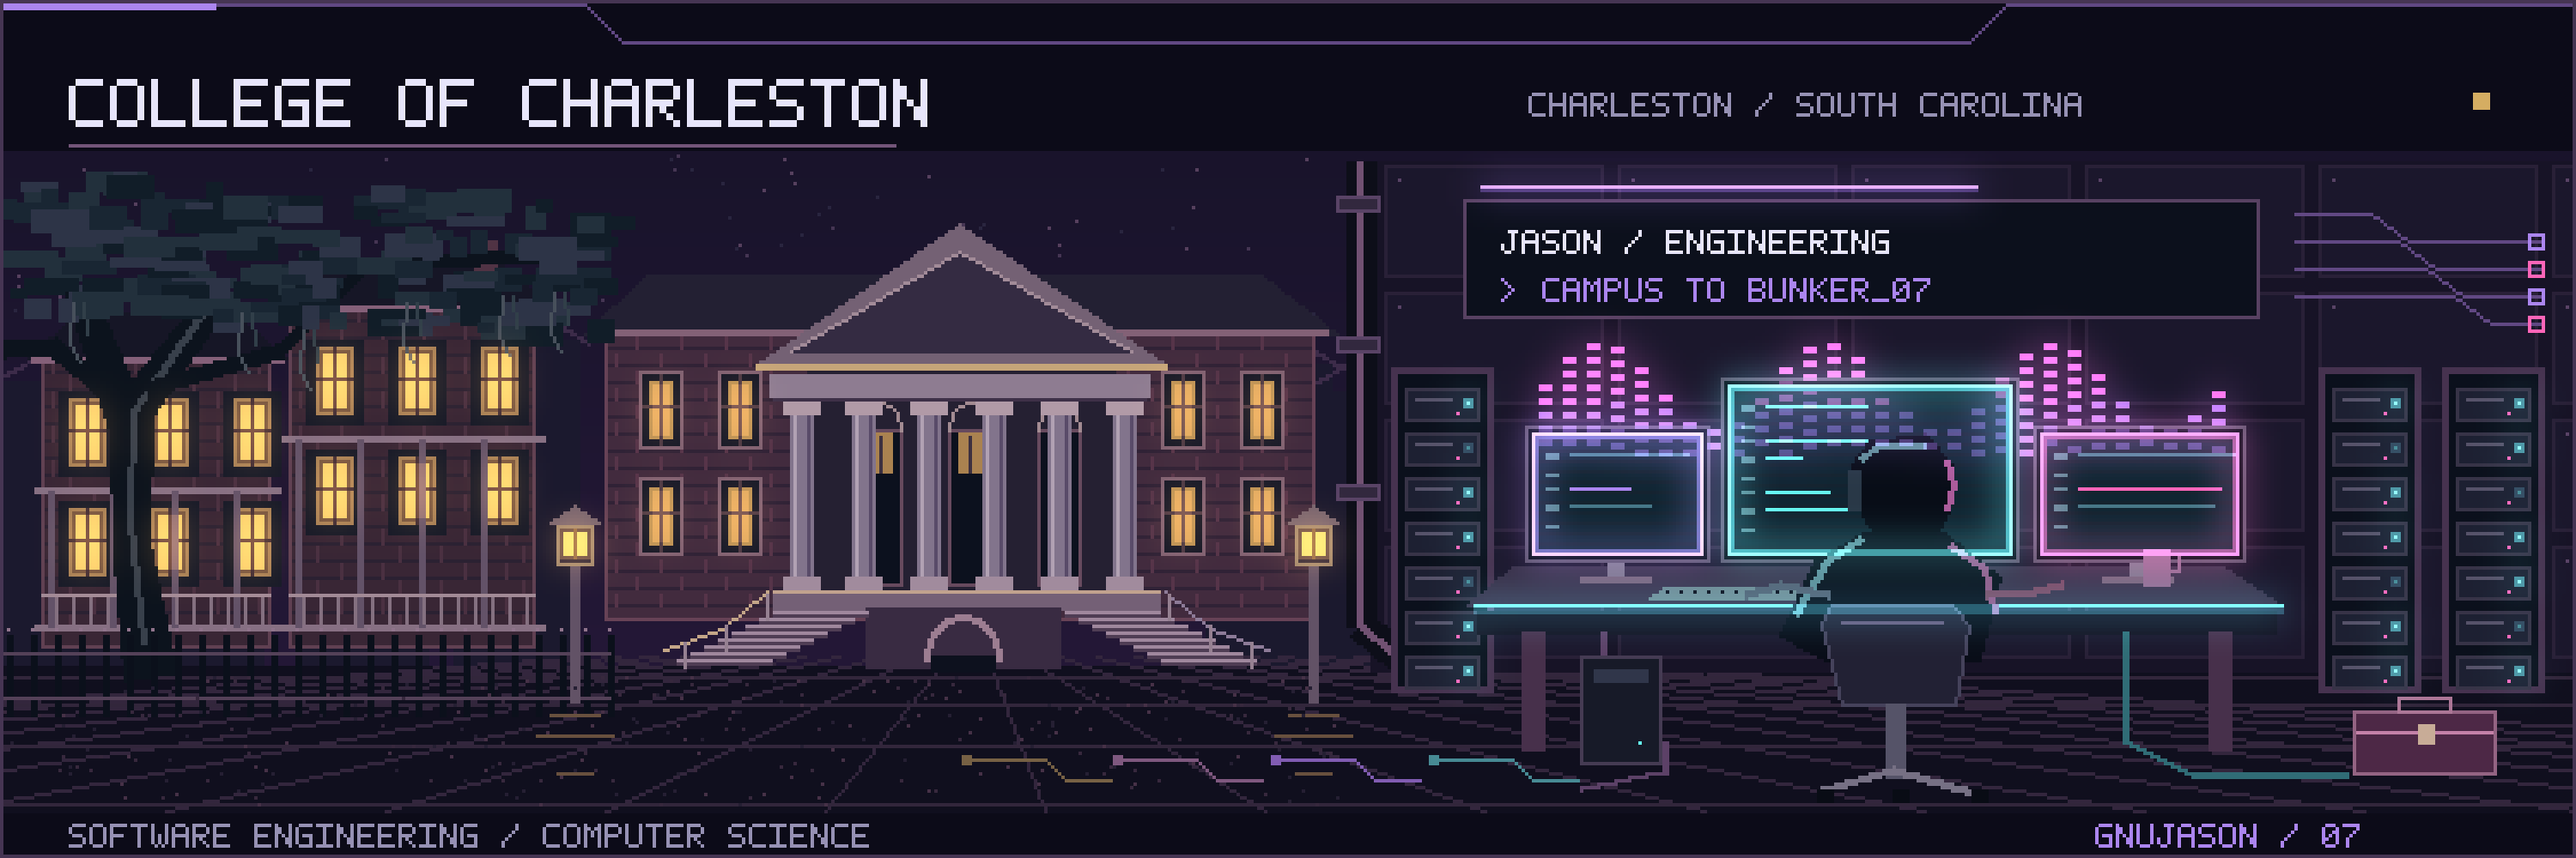
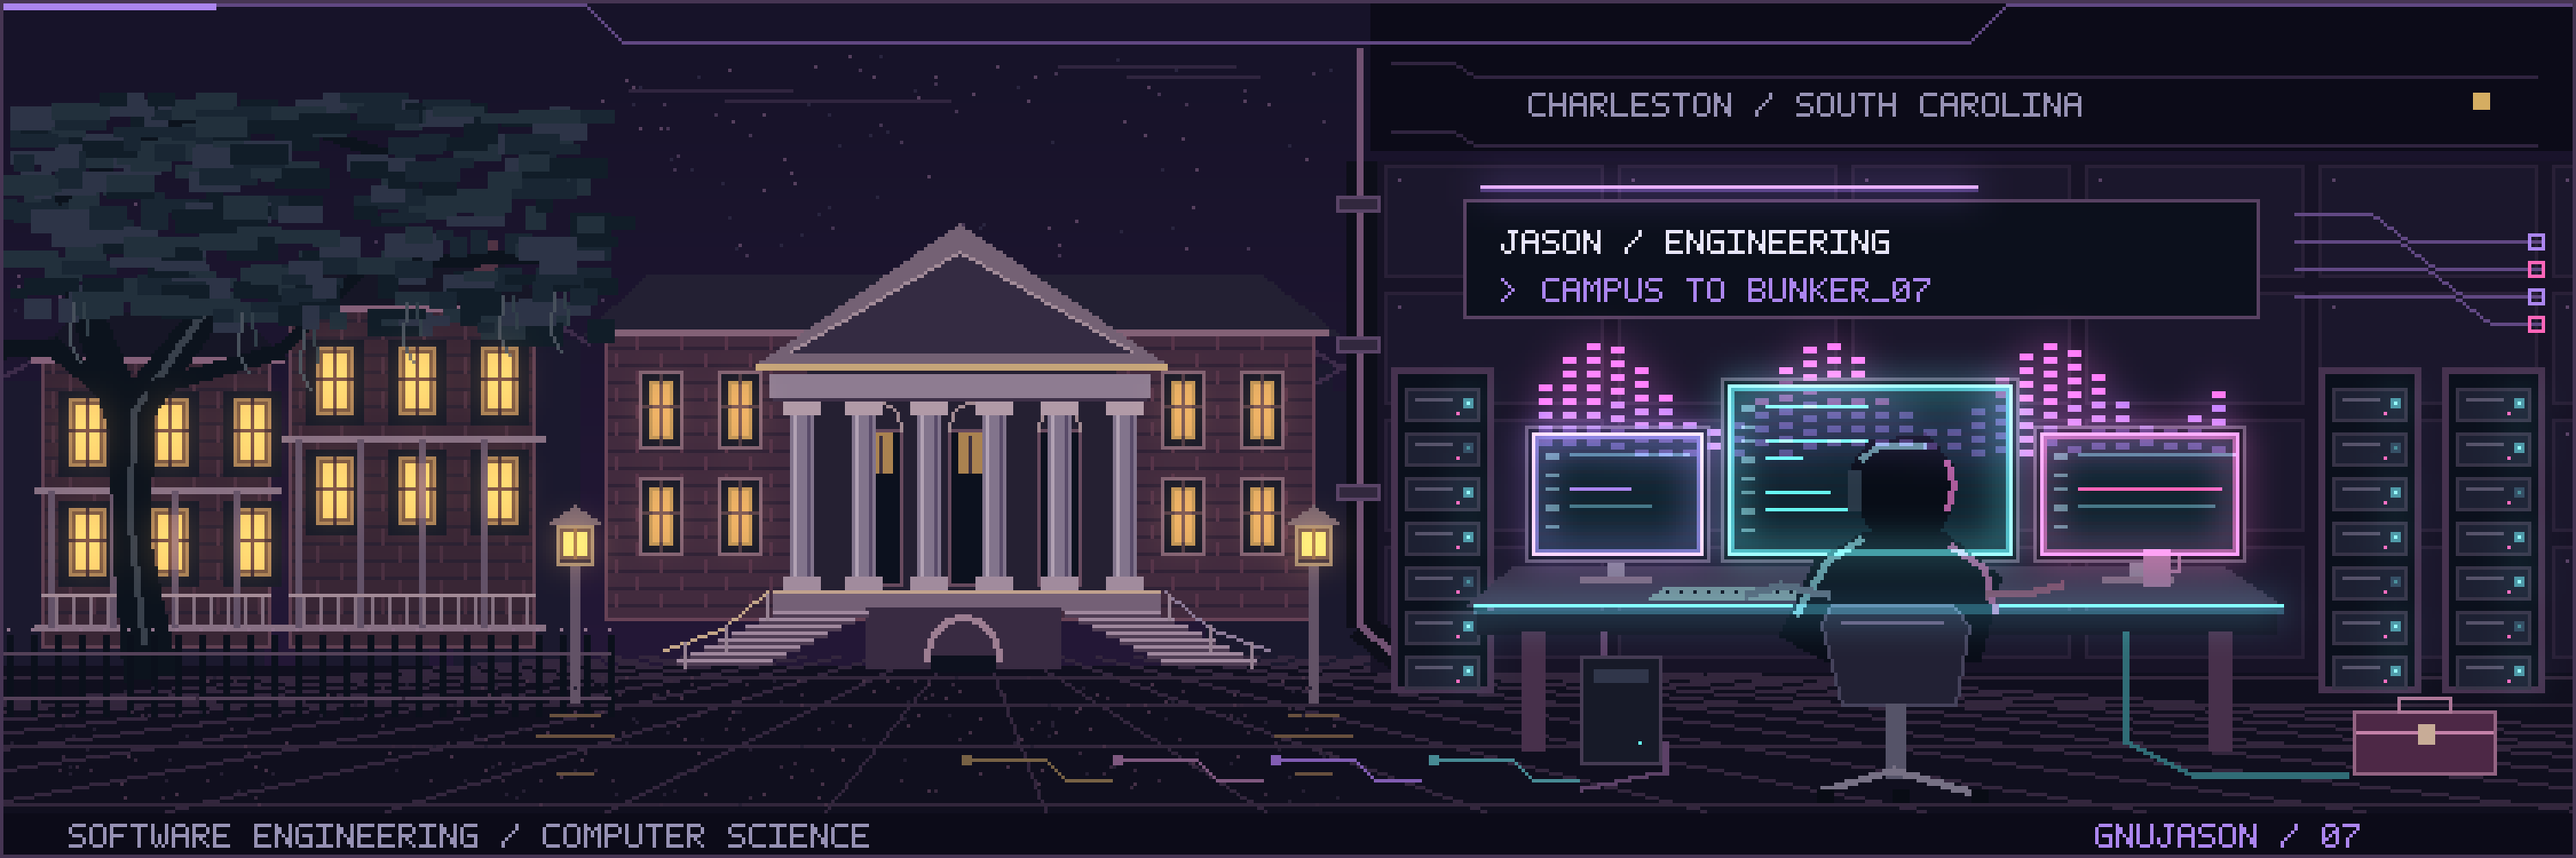
Remove profile section headings and recompose college panorama

diff --git a/scripts/test_profile.py b/scripts/test_profile.py
@@ -2,7 +2,9 @@
 
 from html.parser import HTMLParser
 import unittest
+from unittest.mock import patch
 
+import markdown
 from PIL import Image, ImageChops, ImageSequence
 
 import build_cofc
@@ -16,6 +18,8 @@ class ReadmeImages(HTMLParser):
         self.sources = []
         self.anchors = []
         self.targets = set()
+        self.headings = []
+        self.target_elements = []
 
     def handle_starttag(self, tag, attrs):
         attrs = dict(attrs)
@@ -27,6 +31,9 @@ class ReadmeImages(HTMLParser):
             self.anchors.append(attrs["href"][1:])
         if "id" in attrs:
             self.targets.add(attrs["id"])
+            self.target_elements.append((tag, attrs))
+        if tag in ("h1", "h2", "h3", "h4", "h5", "h6"):
+            self.headings.append(tag)
 
 
 class ProfileTests(unittest.TestCase):
@@ -154,14 +161,41 @@ class ProfileTests(unittest.TestCase):
         self.assertNotIn("height", image)
         for description in ("Jason", "Charleston", "courtyard", "workstation"):
             self.assertIn(description, image["alt"])
-        headings = ("operator-log", "college-of-charleston", "project-bays",
-                    "toolchain", "open-channel")
-        positions = [readme.index(f'<h2 id="{heading}">') for heading in headings]
+        anchors = ("operator-log", "college-of-charleston", "project-bays",
+                   "toolchain", "open-channel")
+        positions = [readme.index(f'id="{anchor}"') for anchor in anchors]
         self.assertEqual(positions, sorted(positions))
-        for number, (start, end) in enumerate(zip(positions, positions[1:] + [len(readme)]), 1):
-            self.assertIn(f"0{number} / ", readme[start:readme.index("</h2>", start)])
         self.assertLess(positions[1], readme.index(image["src"]))
         self.assertLess(readme.index(image["src"]), positions[2])
+        self.assertIn("College of Charleston · Software Engineering / Computer Science · "
+                      "Charleston, South Carolina", readme)
+
+    def test_invisible_section_anchors(self):
+        readme = (profile.ROOT / "README.md").read_text()
+        rendered = markdown.markdown(readme, extensions=["fenced_code"])
+        parser = ReadmeImages()
+        parser.feed(rendered)
+        self.assertEqual(parser.headings, ["h1"])
+        self.assertEqual(parser.target_elements, [
+            ("a", {"id": "operator-log"}),
+            ("p", {"id": "college-of-charleston", "align": "center"}),
+            ("p", {"id": "project-bays", "align": "center"}),
+            ("p", {"id": "toolchain", "align": "center"}),
+            ("a", {"id": "open-channel"}),
+        ])
+        self.assertNotRegex(rendered, r'<p>\s*<a id="[^"]+"></a>\s*</p>')
+        self.assertNotRegex(readme, r"0[1-5] / (Operator Log|College of Charleston|"
+                           r"Project Bays|Toolchain|Open Channel)")
+        self.assertFalse(any(attrs["src"].startswith("assets/icons/") for attrs in parser.images))
+        for anchor in parser.anchors:
+            self.assertIn(anchor, parser.targets)
+
+    def test_cofc_environment_replaces_title(self):
+        with patch("build_cofc.text", wraps=build_cofc.text) as labels:
+            image = build_cofc.montage()
+        for call in labels.call_args_list:
+            self.assertNotIn("COLLEGE OF CHARLESTON", call.args[2].upper())
+        self.assertGreater(len(image.crop((20, 23, 260, 43)).getcolors(4800)), 8)
 
 
 if __name__ == "__main__":

diff --git a/scripts/build_cofc.py b/scripts/build_cofc.py
@@ -178,13 +178,31 @@ def montage():
     image = bloom(image, lights)
     draw = ImageDraw.Draw(image)
 
-    draw.rectangle((0, 0, 749, 43), fill=INK)
+    # Extend the canopy and night sky into the former title band.
+    for y in range(44):
+        blend = max(0, y - 16) / 179
+        draw.line((0, y, 398, y),
+                  fill=(23 + int(13 * blend), 19 + int(5 * blend), 41 + int(14 * blend)))
+    crown = random.Random(1771)
+    for _ in range(55):
+        x, y = crown.randrange(175, 389), crown.randrange(16, 43)
+        draw.point((x, y), fill=crown.choice(("#453553", "#56405e", "#29253f")))
+    for x, y, width in ((183, 26, 47), (211, 29, 65), (308, 19, 51), (328, 22, 38)):
+        draw.line((x, y, x + width, y), fill="#30253f")
+    draw.line((16, 57, 48, 36, 82, 34, 111, 44), fill="#0c131d", width=4)
+    for _ in range(150):
+        x = crown.randrange(0, 165)
+        y = crown.randrange(25, 50) + abs(x - 70) // 14
+        draw.rectangle((x, y, x + crown.randrange(4, 17), y + crown.randrange(2, 6)),
+                       fill=crown.choice(("#111d28", "#192633", "#22303c", "#2d3447")))
+    draw.rectangle((399, 0, 749, 43), fill=INK)
+    draw.line((395, 14, 395, 46), fill="#715172", width=2)
+    for y in (18, 38):
+        draw.line((405, y, 423, y, 429, y + 4, 738, y + 4), fill="#30243f")
     draw.line((0, 1, 170, 1, 181, 12, 573, 12, 584, 1, 749, 1), fill="#614883")
     draw.line((0, 1, 62, 1), fill=PURPLE, width=2)
-    text(draw, (20, 23), "COLLEGE OF CHARLESTON", WHITE, 2)
     text(draw, (445, 27), "CHARLESTON / SOUTH CAROLINA", MUTED)
     draw.rectangle((720, 27, 724, 31), fill=GOLD)
-    draw.line((20, 42, 260, 42), fill="#735579")
     draw.rectangle((0, 237, 749, 249), fill=INK)
     text(draw, (20, 240), "SOFTWARE ENGINEERING / COMPUTER SCIENCE", MUTED)
     text(draw, (610, 240), "GNUJASON / 07", PURPLE)

diff --git a/README.md b/README.md
@@ -31,8 +31,7 @@
 
 <img src="assets/ascii-dividers/bunker-divider.png" width="100%" alt="">
 
-<h2 id="operator-log"><img src="assets/icons/bunker-terminal.png" width="24" height="24" alt=""> 01 / Operator Log</h2>
-
+<a id="operator-log"></a>
 Hi I'm Jason — My focus is software engineering and web development, but specifically the kind that turns raw systems into living, observable platforms — full‑stack applications, backend automation pipelines, real‑time data flows, and the infrastructure that keeps them running. I build the tools, the APIs, the telemetry, and the interfaces that make complex systems usable, visual, and alive.
 
 ```text
@@ -44,9 +43,7 @@ workbench : API‑driven content systems / automation scripts / data refresh pip
 
 <img src="assets/ascii-dividers/bunker-divider.png" width="100%" alt="">
 
-<h2 id="college-of-charleston"><img src="assets/icons/bunker-terminal.png" width="24" height="24" alt=""> 02 / College of Charleston</h2>
-
-<p align="center">
+<p id="college-of-charleston" align="center">
   <img src="assets/cofc/cofc-montage.png" width="100%" alt="Jason's College of Charleston connection in pixel art: gold-lit Charleston brick buildings and an oak-shaded collegiate courtyard transition into his purple-neon engineering workstation in Bunker 07.">
 </p>
 
@@ -54,9 +51,7 @@ workbench : API‑driven content systems / automation scripts / data refresh pip
 
 <img src="assets/ascii-dividers/bunker-divider.png" width="100%" alt="">
 
-<h2 id="project-bays"><img src="assets/icons/bunker-projects.png" width="24" height="24" alt=""> 03 / Project Bays</h2>
-
-<p align="center">
+<p id="project-bays" align="center">
   <a href="https://github.com/GnuJason/F1"><img src="assets/ui-elements/project-f1.png" width="390" alt="F1: real-time system telemetry inspired by a Formula 1 pit wall. Python, FastAPI, React. Open repository."></a>
   <a href="https://github.com/GnuJason/geome"><img src="assets/ui-elements/project-geome.png" width="390" alt="geome: a lightweight C command-line tool for geolocation and network metadata. Open repository."></a>
   <a href="https://github.com/GnuJason/Pulse-of-Humanity"><img src="assets/ui-elements/project-pulse.png" width="390" alt="Pulse of Humanity: real-time global population visualization powered by open data and deterministic simulation. Open repository."></a>
@@ -71,9 +66,7 @@ workbench : API‑driven content systems / automation scripts / data refresh pip
 
 <img src="assets/ascii-dividers/bunker-divider.png" width="100%" alt="">
 
-<h2 id="toolchain"><img src="assets/icons/bunker-stack.png" width="24" height="24" alt=""> 04 / Toolchain</h2>
-
-<p align="center">
+<p id="toolchain" align="center">
   <img src="assets/ui-elements/badge-c-cpp.png" height="30" alt="C / C++">
   <img src="assets/ui-elements/badge-python.png" height="30" alt="Python">
   <img src="assets/ui-elements/badge-typescript.png" height="30" alt="TypeScript">
@@ -90,8 +83,7 @@ workbench : API‑driven content systems / automation scripts / data refresh pip
 
 <img src="assets/ascii-dividers/bunker-divider.png" width="100%" alt="">
 
-<h2 id="open-channel"><img src="assets/icons/finger-heart.png" width="21" height="32" alt="Korean finger heart"> 05 / Open Channel</h2>
-
+<a id="open-channel"></a>
 Interested in real-time systems, useful automation, or the space between code and art? Explore a repository, open an issue, or bring a pull request.
 
 <p align="center">

diff --git a/scripts/PROFILE.md b/scripts/PROFILE.md
@@ -45,6 +45,12 @@ small stone highlights, and indicators; the purple/near-black world remains
 dominant. The opaque PNG works on light and dark pages, needs no motion
 fallback, and is displayed at full width with proportional height.
 
+The montage has no large college title: its upper canopy and night-sky detail
+flow into the existing courtyard. The small academic line below identifies
+the college. README sections use invisible explicit anchors within their
+content rather than visible heading/icon rows; existing pixel dividers provide
+separation without additional heading underlines or spacer containers.
+
 ### Existing artwork
 
 - Hero: 3000 x 1000, a 750 x 250 pixel scene enlarged exactly 4x.
